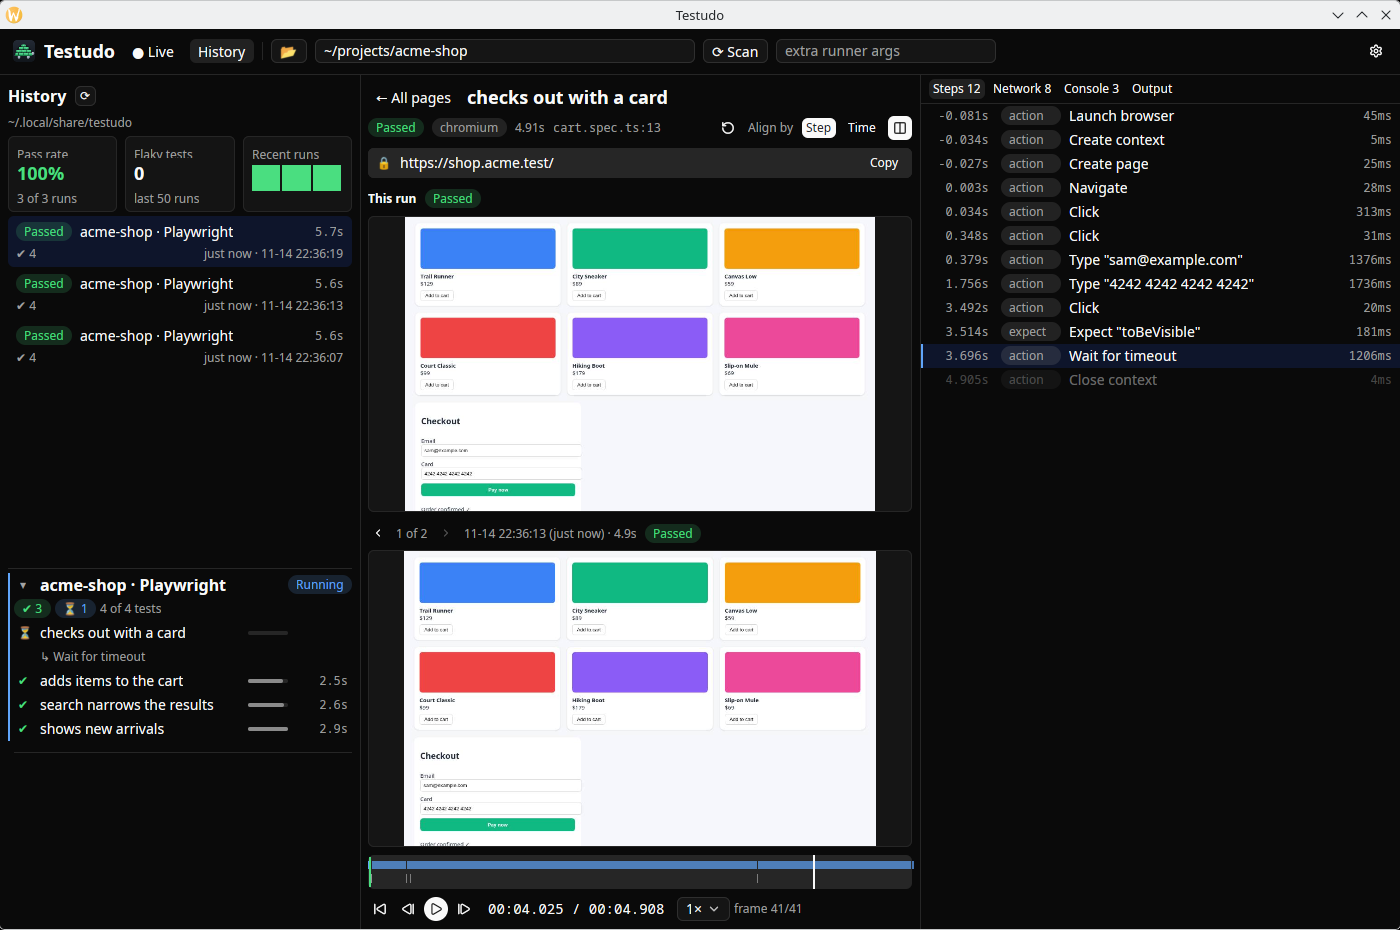
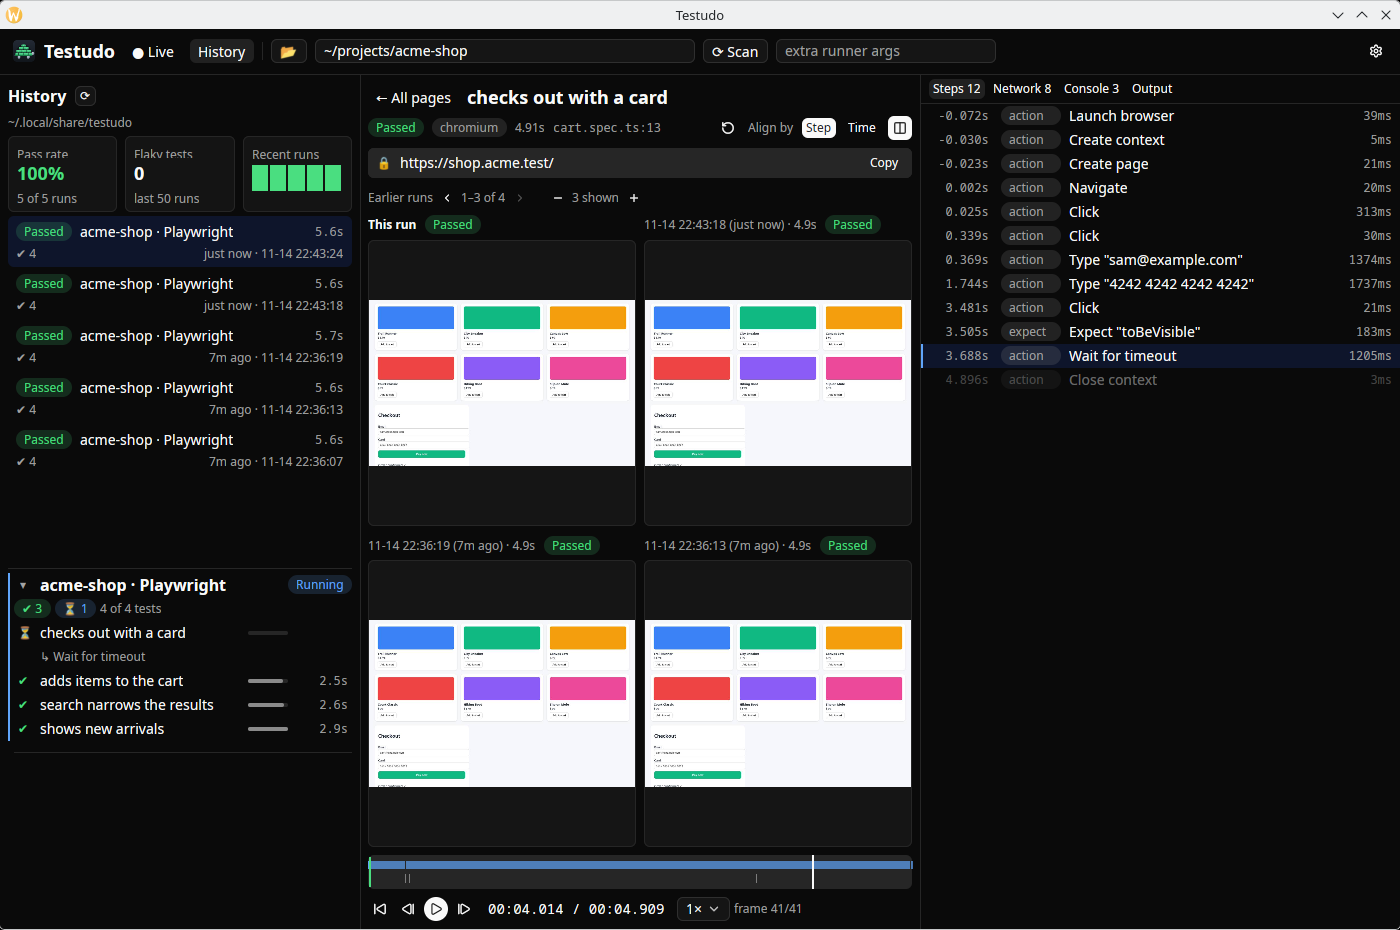
README: retake the comparison screenshot with several earlier runs
Shows this run beside three earlier runs in a 2×2 grid with the new
"Earlier runs ‹ › − N shown +" toolbar; caption updated.

Changed region(s): [[0.0, 0.1871, 0.6757, 0.9355], [0.215, 0.2495, 0.2457, 0.2806]]

diff --git a/README.md b/README.md
@@ -30,9 +30,9 @@ Native GUI test runner that controls, monitors and reports on multiple concurren
 
 ![Focus view: one recorded page with a timeline scrubber and its test steps](docs/screenshots/focus.png)
 
-**Compare with earlier runs** of the same test, played side by side in step; arrows move through the test's history:
+**Compare with earlier runs** of the same test, played side by side in step; − / + choose how many (up to 4) and ‹ › move through the test's history:
 
-![Comparison: this run and an earlier run of the same test, aligned by step](docs/screenshots/compare.png)
+![Comparison: this run and three earlier runs of the same test in a grid, aligned by step](docs/screenshots/compare.png)
 
 **History** of every run, with pass rate, flaky tests and a timeline you can replay:
 
